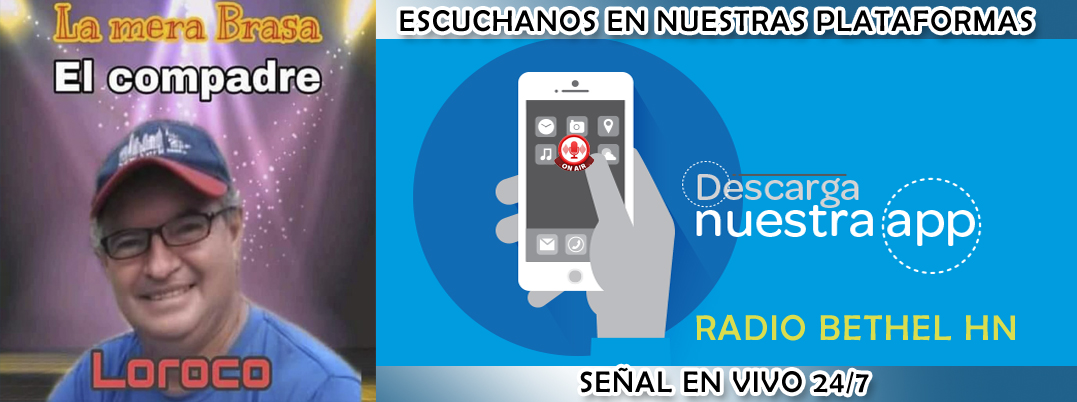
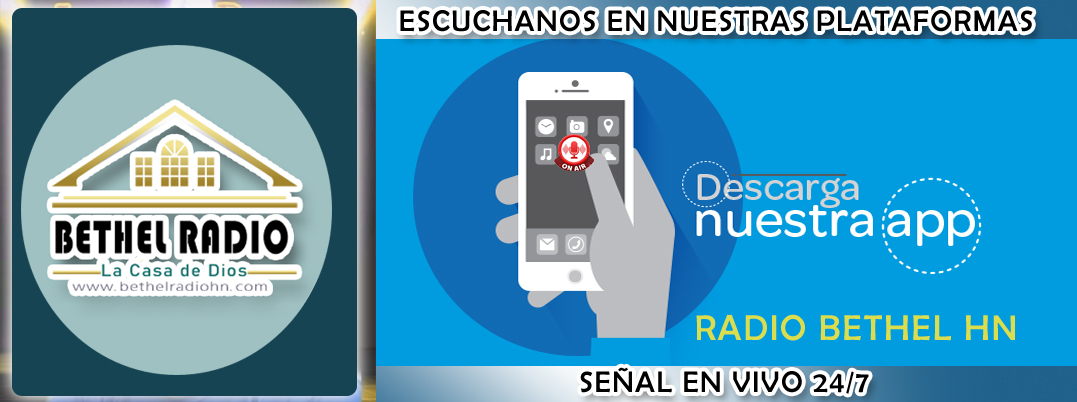
c
c

diff --git a/playwin.html b/playwin.html
@@ -1,6 +1,6 @@
 <head>
 <meta charset="UTF-8">
-<title>Darwin</title>
+<title>Bethel Radio En VIVO</title>
 <link rel="shortcut icon" type="image/x-icon" href="favicon.ico" />
 <script src="js/jquery-3.2.1.min.js"></script>
 <script src="js/lunaradio.js"></script>
@@ -8,7 +8,7 @@
 
 <body style="margin:0px">
 
-<div id="lunaradio" style='width:1077px; height:100%;background-image: url("https://bethelradiohn.com/imagenes/bannerLoroco1.jpg"); background-repeat: no-repeat; background-size: cover; background-position: center;
+<div id="lunaradio" style='width:1077px; height:100%;background-image: url("imagenes/fnd_play.jpg"); background-repeat: no-repeat; background-size: cover; background-position: center;
 -webkit-border-top-left-radius: 0px;
   -webkit-border-top-right-radius: 0px;
   -webkit-border-bottom-right-radius: 0px;
@@ -42,7 +42,7 @@ $("#lunaradio").lunaradio({
 	fontratio: "0.3",
 	radioname: "Transmitiendo en Vivo Ahora BETHEL RADIO LA CASA DE DIOS",
 	scroll: "true",
-	coverimage: "https://sistemashonduras.webcindario.com/img_22win/MAS%20INFO%20WIN.jpg",
+	coverimage: "imagenes/logoPlay.png",
 	usevisualizer: "fake",
 	coverstyle: "animated",
 	visualizertype: "6",
